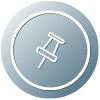
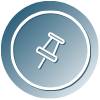
modal button colors changed, corp div changed

diff --git a/src/app/pages/home/home.component.css b/src/app/pages/home/home.component.css
@@ -130,7 +130,7 @@ a.intro-item:hover .intro-view {
 }
 
 .feac-text {
-  font-weight: lighter;
+  font-weight: 400;
   font-size: 16px;
   color: rgb(239 239 255);
   line-height: 1.76;
@@ -379,9 +379,6 @@ footer {
   .search-area {
     padding-top: 0;
   }
-  .corp .wrapper-corp img:first-child {
-    margin-top: 10px !important;
-   }
 }
 
 @media (min-width: 768px) and (max-width: 1024px) {
@@ -609,23 +606,100 @@ footer {
   display: flex;
   border-color: #c9f1ffcf;
   border-style: inset;
+  border-radius: 30px;
 }
 
 .corp .wrapper-corp .item {
   margin: 10px;
   padding: 0;
+  display: flex;
+  justify-content: center;
+  align-items: center;
 }
 
 .corp .wrapper-corp .item:first-child {
-  border-right: 1px solid #ffffffb8;
+  border-right:  solid #ffffffb8;
 }
 
 .corp .wrapper-corp img:first-child {
- margin-top: 25px;
  padding-right: 10px;
 }
 
 .corp .wrapper-corp .item .dk {
-  width: 45%;
   margin-top: 0;
+}
+
+.swing:hover
+{
+        -webkit-animation: swing 1s ease;
+        animation: swing 1s ease;
+        -webkit-animation-iteration-count: 1;
+        animation-iteration-count: 1;
+}
+
+@-webkit-keyframes swing
+{
+    15%
+    {
+        -webkit-transform: translateX(5px);
+        transform: translateX(5px);
+    }
+    30%
+    {
+        -webkit-transform: translateX(-5px);
+       transform: translateX(-5px);
+    } 
+    50%
+    {
+        -webkit-transform: translateX(3px);
+        transform: translateX(3px);
+    }
+    65%
+    {
+        -webkit-transform: translateX(-3px);
+        transform: translateX(-3px);
+    }
+    80%
+    {
+        -webkit-transform: translateX(2px);
+        transform: translateX(2px);
+    }
+    100%
+    {
+        -webkit-transform: translateX(0);
+        transform: translateX(0);
+    }
+}
+@keyframes swing
+{
+    15%
+    {
+        -webkit-transform: translateX(5px);
+        transform: translateX(5px);
+    }
+    30%
+    {
+        -webkit-transform: translateX(-5px);
+        transform: translateX(-5px);
+    }
+    50%
+    {
+        -webkit-transform: translateX(3px);
+        transform: translateX(3px);
+    }
+    65%
+    {
+        -webkit-transform: translateX(-3px);
+        transform: translateX(-3px);
+    }
+    80%
+    {
+        -webkit-transform: translateX(2px);
+        transform: translateX(2px);
+    }
+    100%
+    {
+        -webkit-transform: translateX(0);
+        transform: translateX(0);
+    }
 }

diff --git a/src/app/pages/home/home.component.html b/src/app/pages/home/home.component.html
@@ -358,12 +358,14 @@
       </div>
       <div class="wrapper-corp">
         <div class="col-xs-12 col-sm-6 col-md-4 col-lg-4 item">
-          <a href="https://www.mobiler.dev/?ref=hackathonturkiye" class="gtag" target="_blank" rel="nofollow">
-            <img class="img-responsive" src="../../../assets/images/mobiler-dev.jpg" alt="mobiler.dev">
+          <a href="https://www.mobiler.dev/?ref=hackathonturkiye" class="gtag swing" target="_blank" rel="nofollow">
+            <img class="img-responsive" src="../../../assets/images/mobiler-dev.png" alt="mobiler.dev">
           </a>
         </div>
         <div class="col-xs-12 col-sm-6 col-md-4 col-lg-4 item">
+          <a href="http://dijitalkunduz.com" class="gtag swing" target="_blank" rel="nofollow">
           <img class="img-responsive dk" src="../../../assets/images/dk.png" alt="Dijital Kunduz">
+        </a>
         </div>
       </div>
     </div>
@@ -468,7 +470,9 @@
         </div>
       </div>
     </form>
+  <div class="col-md-12">
     <button class="discord-button discord-button-close bulletin-close" (click)="this.bdsp = 'none' ">Hayır,
       istemiyorum</button>
+    </div>
   </div>
 </div>
